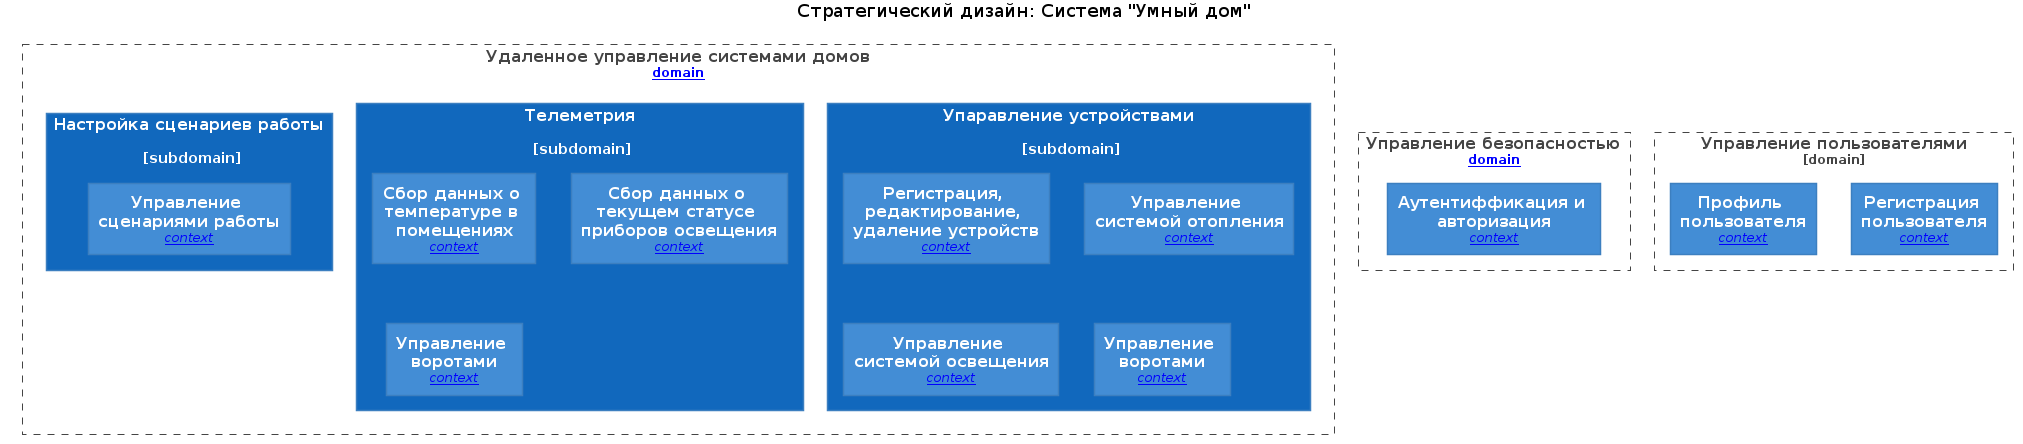
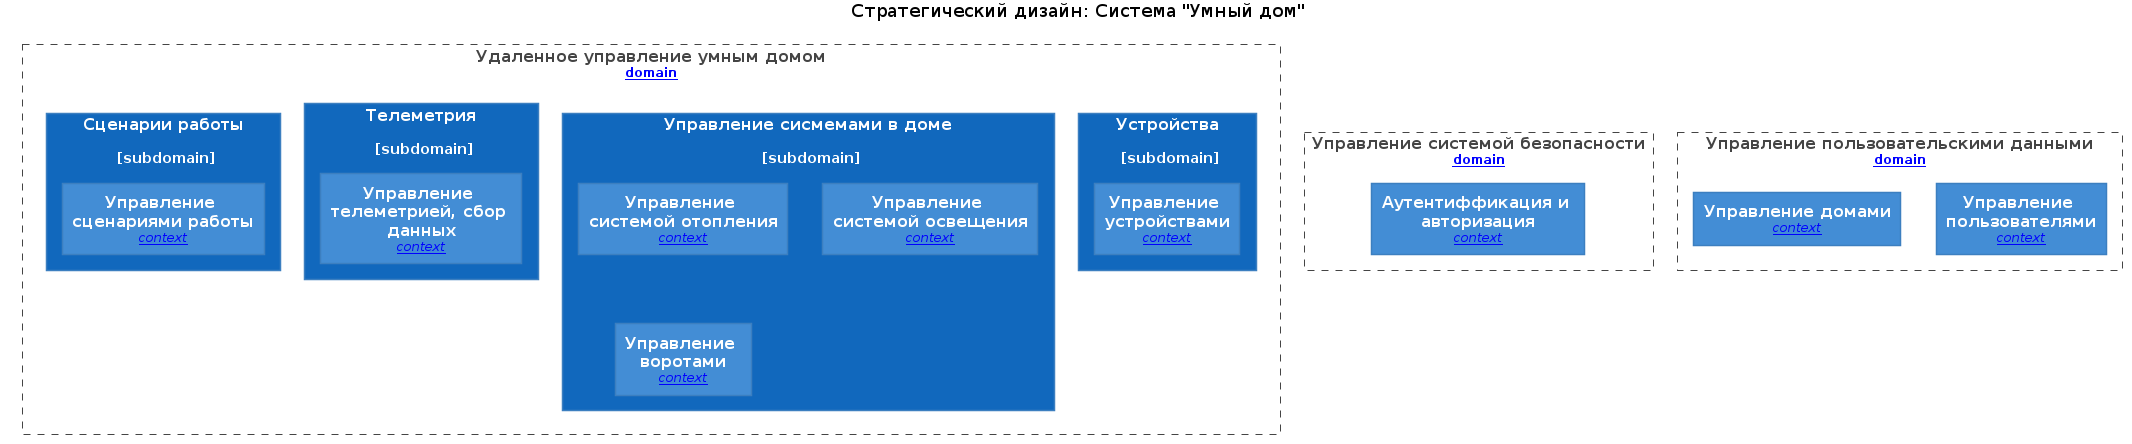
Задание 2. Проектирование микросервисной архитектуры

Changed region(s): [[0.0, 0.205, 0.9965, 0.9369], [0.3737, 0.0, 0.6228, 0.0586], [0.218, 0.1171, 0.436, 0.1757]]

diff --git a/README.md b/README.md
@@ -54,7 +54,7 @@
 - Домен (вспомогательный) - Управление пользовательскими данными
     - Контекст - Управление пользователями
     - Контекст - Управление домами
-
+ 
 [Стратегический дизайн: Система "Умный дом"](schemas/DDD/smarthome.png)
 
 
@@ -81,8 +81,13 @@
 - [Container Diagram: Система "Уьный дом"](schemas/C4/container/smarthome_containers_diagram.png)
 
 **Диаграмма компонентов (Components)**
-
-Добавьте диаграмму для каждого из выделенных микросервисов.
+* [](schemas/C4/component/user_data_service_component_diagram.puml)
+* [Component Diagram: Сервис управления устройствами](device_management_service_component_diagram.puml)
+* [Component Diagram: Сервис телеметрии](telemetry_service_compontnt_diagram.puml)
+* [Component Diagram: Сервис управления сценариями](scenario_service_component_diagram.puml)
+* [Component Diagram: Сервис управления системой отопления"](gates_system_management_service.puml)
+* [Component Diagram: Сервис управления системой освещения](heating_system_management_service.puml)
+* [Component Diagram: Сервис управления воротоми](lightning_system_management_service.puml)
 
 **Диаграмма кода (Code)**
 
